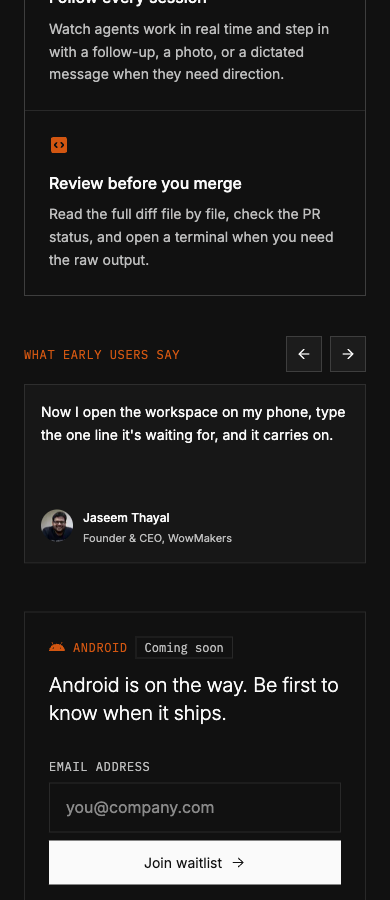
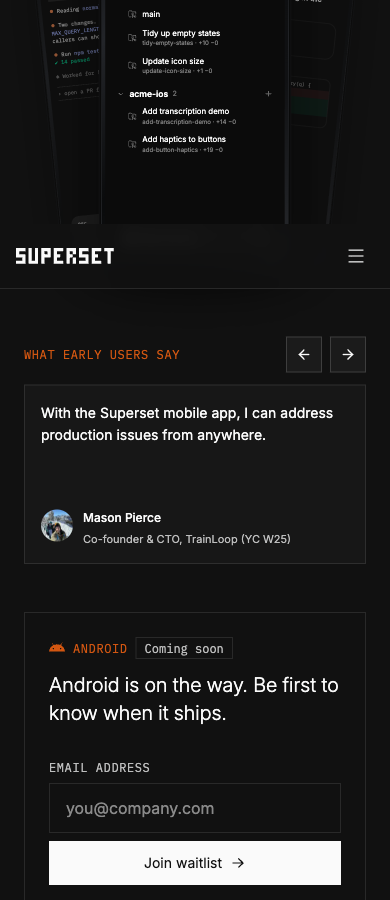
refactor(marketing): remove redundant mobile feature cards

diff --git a/apps/marketing/src/app/[lang]/mobile/page.tsx b/apps/marketing/src/app/[lang]/mobile/page.tsx
@@ -9,7 +9,6 @@ import { localizedAlternates } from "@/app/[lang]/metadata";
 import { initServerI18n } from "@/app/i18n-server";
 import { isMobileLaunched } from "@/lib/site-flags";
 import { AppStoreQr } from "./components/AppStoreQr";
-import { MobileFeatures } from "./components/MobileFeatures";
 import { MobileTestimonials } from "./components/MobileTestimonials";
 import { MobileWaitlist } from "./components/MobileWaitlist";
 
@@ -70,10 +69,6 @@ export default async function MobilePage() {
 					</div>
 					<PhoneShowcase />
 				</section>
-
-				<div className="mt-16 sm:mt-24">
-					<MobileFeatures />
-				</div>
 
 				<MobileTestimonials />
 
